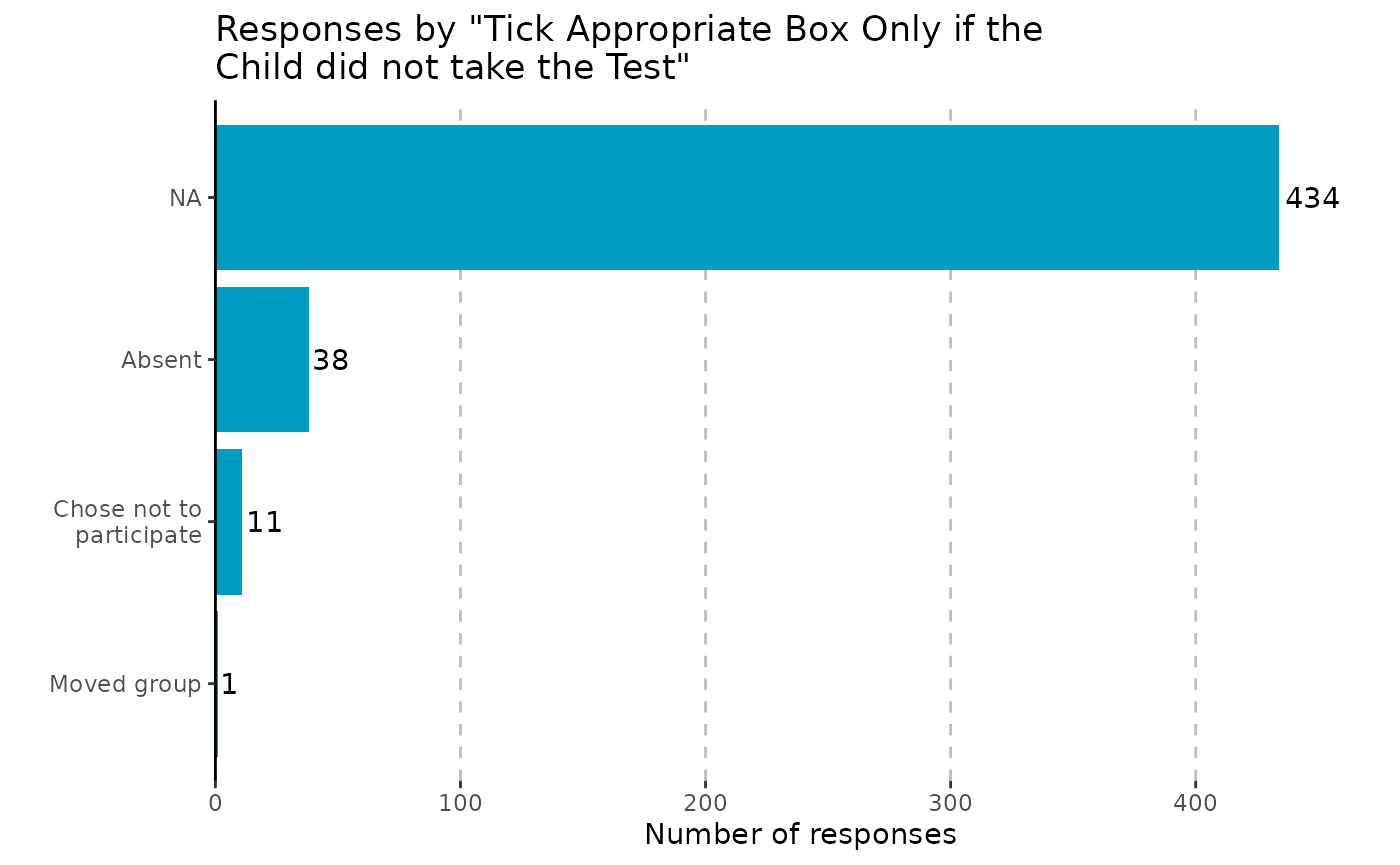
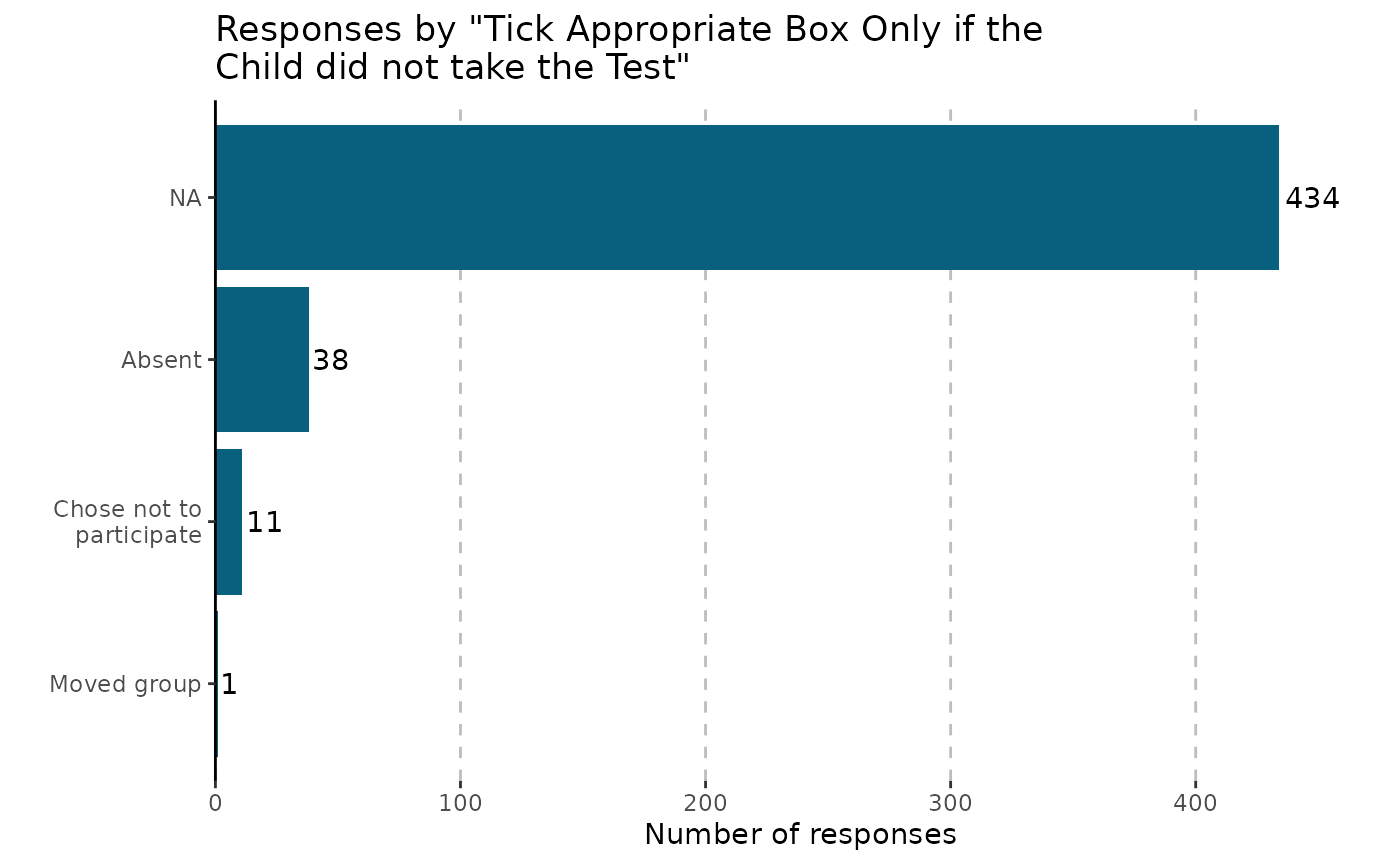
Deploying to gh-pages from @ Jake-Powell/OMESurvey@9e0850939877419bcef23e19df1eaf56ab7e080b 🚀

Changed region(s): [[0.1536, 0.1249, 0.9214, 0.6867]]

diff --git a/articles/Create-survey-figures.html b/articles/Create-survey-figures.html
@@ -111,7 +111,7 @@ ggplot, a plotly figure or a formatted data frame.</p>
 <div class="sourceCode" id="cb4"><pre class="downlit sourceCode r">
 <code class="sourceCode R"><span><span class="fu">OMESurvey</span><span class="fu">::</span><span class="fu"><a href="../reference/plot_theme.html">plot_theme</a></span><span class="op">(</span><span class="va">data</span>, theme <span class="op">=</span> <span class="st">'Theme_1'</span>, kind <span class="op">=</span> <span class="st">'plotly'</span><span class="op">)</span></span></code></pre></div>
 <div class="plotly html-widget html-fill-item" id="htmlwidget-ac96cb3ee4656e2e9ec3" style="width:700px;height:432.632880098888px;"></div>
-<script type="application/json" data-for="htmlwidget-ac96cb3ee4656e2e9ec3">{"x":{"visdat":{"1e3f2b8c265e":["function () ","plotlyVisDat"]},"cur_data":"1e3f2b8c265e","attrs":{"1e3f2b8c265e":{"y":{},"x":{},"orientation":"h","hovertext":{},"hoverinfo":"text","color":{},"colors":["#009BC1","#08607E","#10263B","#732C53","#D7336C"],"alpha_stroke":1,"sizes":[10,100],"spans":[1,20],"type":"bar"}},"layout":{"margin":{"b":40,"l":60,"t":25,"r":10},"xaxis":{"domain":[0,1],"automargin":true,"title":"Number of responses"},"yaxis":{"domain":[0,1],"automargin":true,"title":"","type":"category","categoryorder":"array","categoryarray":["Question 1","Question 2","Question 3","Question 4","Question 5","Question 6"]},"barmode":"stack","hovermode":"closest","showlegend":true},"source":"A","config":{"modeBarButtonsToAdd":["hoverclosest","hovercompare"],"showSendToCloud":false},"data":[{"y":["Question 1","Question 2","Question 3","Question 4","Question 5","Question 6"],"x":[122,49,84,134,85,90],"orientation":"h","hovertext":["Agree a lot<br>122 Responses<br>34.9%","Agree a lot<br>49 Responses<br>14.4%","Agree a lot<br>84 Responses<br>23.9%","Agree a lot<br>134 Responses<br>38.1%","Agree a lot<br>85 Responses<br>23.5%","Agree a lot<br>90 Responses<br>25.9%"],"hoverinfo":["text","text","text","text","text","text"],"type":"bar","name":"Agree a lot","marker":{"color":"rgba(0,155,193,1)","line":{"color":"rgba(0,155,193,1)"}},"textfont":{"color":"rgba(0,155,193,1)"},"error_y":{"color":"rgba(0,155,193,1)"},"error_x":{"color":"rgba(0,155,193,1)"},"xaxis":"x","yaxis":"y","frame":null},{"y":["Question 1","Question 2","Question 3","Question 4","Question 5","Question 6"],"x":[139,175,135,103,58,104],"orientation":"h","hovertext":["Agree a little<br>139 Responses<br>39.7%","Agree a little<br>175 Responses<br>51.5%","Agree a little<br>135 Responses<br>38.4%","Agree a little<br>103 Responses<br>29.3%","Agree a little<br>58 Responses<br>16.1%","Agree a little<br>104 Responses<br>30%"],"hoverinfo":["text","text","text","text","text","text"],"type":"bar","name":"Agree a little","marker":{"color":"rgba(8,96,126,1)","line":{"color":"rgba(8,96,126,1)"}},"textfont":{"color":"rgba(8,96,126,1)"},"error_y":{"color":"rgba(8,96,126,1)"},"error_x":{"color":"rgba(8,96,126,1)"},"xaxis":"x","yaxis":"y","frame":null},{"y":["Question 1","Question 2","Question 3","Question 4","Question 5","Question 6"],"x":[45,54,65,52,70,76],"orientation":"h","hovertext":["Neither<br>45 Responses<br>12.9%","Neither<br>54 Responses<br>15.9%","Neither<br>65 Responses<br>18.5%","Neither<br>52 Responses<br>14.8%","Neither<br>70 Responses<br>19.4%","Neither<br>76 Responses<br>21.9%"],"hoverinfo":["text","text","text","text","text","text"],"type":"bar","name":"Neither","marker":{"color":"rgba(16,38,59,1)","line":{"color":"rgba(16,38,59,1)"}},"textfont":{"color":"rgba(16,38,59,1)"},"error_y":{"color":"rgba(16,38,59,1)"},"error_x":{"color":"rgba(16,38,59,1)"},"xaxis":"x","yaxis":"y","frame":null},{"y":["Question 1","Question 2","Question 3","Question 4","Question 5","Question 6"],"x":[28,44,47,33,61,32],"orientation":"h","hovertext":["Disagree a little<br>28 Responses<br>8%","Disagree a little<br>44 Responses<br>12.9%","Disagree a little<br>47 Responses<br>13.4%","Disagree a little<br>33 Responses<br>9.4%","Disagree a little<br>61 Responses<br>16.9%","Disagree a little<br>32 Responses<br>9.2%"],"hoverinfo":["text","text","text","text","text","text"],"type":"bar","name":"Disagree a little","marker":{"color":"rgba(115,44,83,1)","line":{"color":"rgba(115,44,83,1)"}},"textfont":{"color":"rgba(115,44,83,1)"},"error_y":{"color":"rgba(115,44,83,1)"},"error_x":{"color":"rgba(115,44,83,1)"},"xaxis":"x","yaxis":"y","frame":null},{"y":["Question 1","Question 2","Question 3","Question 4","Question 5","Question 6"],"x":[16,18,21,30,87,45],"orientation":"h","hovertext":["Disagree a lot<br>16 Responses<br>4.6%","Disagree a lot<br>18 Responses<br>5.3%","Disagree a lot<br>21 Responses<br>6%","Disagree a lot<br>30 Responses<br>8.5%","Disagree a lot<br>87 Responses<br>24.1%","Disagree a lot<br>45 Responses<br>13%"],"hoverinfo":["text","text","text","text","text","text"],"type":"bar","name":"Disagree a lot","marker":{"color":"rgba(215,51,108,1)","line":{"color":"rgba(215,51,108,1)"}},"textfont":{"color":"rgba(215,51,108,1)"},"error_y":{"color":"rgba(215,51,108,1)"},"error_x":{"color":"rgba(215,51,108,1)"},"xaxis":"x","yaxis":"y","frame":null}],"highlight":{"on":"plotly_click","persistent":false,"dynamic":false,"selectize":false,"opacityDim":0.20000000000000001,"selected":{"opacity":1},"debounce":0},"shinyEvents":["plotly_hover","plotly_click","plotly_selected","plotly_relayout","plotly_brushed","plotly_brushing","plotly_clickannotation","plotly_doubleclick","plotly_deselect","plotly_afterplot","plotly_sunburstclick"],"base_url":"https://plot.ly"},"evals":[],"jsHooks":[]}</script>
+<script type="application/json" data-for="htmlwidget-ac96cb3ee4656e2e9ec3">{"x":{"visdat":{"1d3f7cca3810":["function () ","plotlyVisDat"]},"cur_data":"1d3f7cca3810","attrs":{"1d3f7cca3810":{"y":{},"x":{},"orientation":"h","hovertext":{},"hoverinfo":"text","color":{},"colors":["#009BC1","#08607E","#10263B","#732C53","#D7336C"],"alpha_stroke":1,"sizes":[10,100],"spans":[1,20],"type":"bar"}},"layout":{"margin":{"b":40,"l":60,"t":25,"r":10},"xaxis":{"domain":[0,1],"automargin":true,"title":"Number of responses"},"yaxis":{"domain":[0,1],"automargin":true,"title":"","type":"category","categoryorder":"array","categoryarray":["Question 1","Question 2","Question 3","Question 4","Question 5","Question 6"]},"barmode":"stack","hovermode":"closest","showlegend":true},"source":"A","config":{"modeBarButtonsToAdd":["hoverclosest","hovercompare"],"showSendToCloud":false},"data":[{"y":["Question 1","Question 2","Question 3","Question 4","Question 5","Question 6"],"x":[122,49,84,134,85,90],"orientation":"h","hovertext":["Agree a lot<br>122 Responses<br>34.9%","Agree a lot<br>49 Responses<br>14.4%","Agree a lot<br>84 Responses<br>23.9%","Agree a lot<br>134 Responses<br>38.1%","Agree a lot<br>85 Responses<br>23.5%","Agree a lot<br>90 Responses<br>25.9%"],"hoverinfo":["text","text","text","text","text","text"],"type":"bar","name":"Agree a lot","marker":{"color":"rgba(0,155,193,1)","line":{"color":"rgba(0,155,193,1)"}},"textfont":{"color":"rgba(0,155,193,1)"},"error_y":{"color":"rgba(0,155,193,1)"},"error_x":{"color":"rgba(0,155,193,1)"},"xaxis":"x","yaxis":"y","frame":null},{"y":["Question 1","Question 2","Question 3","Question 4","Question 5","Question 6"],"x":[139,175,135,103,58,104],"orientation":"h","hovertext":["Agree a little<br>139 Responses<br>39.7%","Agree a little<br>175 Responses<br>51.5%","Agree a little<br>135 Responses<br>38.4%","Agree a little<br>103 Responses<br>29.3%","Agree a little<br>58 Responses<br>16.1%","Agree a little<br>104 Responses<br>30%"],"hoverinfo":["text","text","text","text","text","text"],"type":"bar","name":"Agree a little","marker":{"color":"rgba(8,96,126,1)","line":{"color":"rgba(8,96,126,1)"}},"textfont":{"color":"rgba(8,96,126,1)"},"error_y":{"color":"rgba(8,96,126,1)"},"error_x":{"color":"rgba(8,96,126,1)"},"xaxis":"x","yaxis":"y","frame":null},{"y":["Question 1","Question 2","Question 3","Question 4","Question 5","Question 6"],"x":[45,54,65,52,70,76],"orientation":"h","hovertext":["Neither<br>45 Responses<br>12.9%","Neither<br>54 Responses<br>15.9%","Neither<br>65 Responses<br>18.5%","Neither<br>52 Responses<br>14.8%","Neither<br>70 Responses<br>19.4%","Neither<br>76 Responses<br>21.9%"],"hoverinfo":["text","text","text","text","text","text"],"type":"bar","name":"Neither","marker":{"color":"rgba(16,38,59,1)","line":{"color":"rgba(16,38,59,1)"}},"textfont":{"color":"rgba(16,38,59,1)"},"error_y":{"color":"rgba(16,38,59,1)"},"error_x":{"color":"rgba(16,38,59,1)"},"xaxis":"x","yaxis":"y","frame":null},{"y":["Question 1","Question 2","Question 3","Question 4","Question 5","Question 6"],"x":[28,44,47,33,61,32],"orientation":"h","hovertext":["Disagree a little<br>28 Responses<br>8%","Disagree a little<br>44 Responses<br>12.9%","Disagree a little<br>47 Responses<br>13.4%","Disagree a little<br>33 Responses<br>9.4%","Disagree a little<br>61 Responses<br>16.9%","Disagree a little<br>32 Responses<br>9.2%"],"hoverinfo":["text","text","text","text","text","text"],"type":"bar","name":"Disagree a little","marker":{"color":"rgba(115,44,83,1)","line":{"color":"rgba(115,44,83,1)"}},"textfont":{"color":"rgba(115,44,83,1)"},"error_y":{"color":"rgba(115,44,83,1)"},"error_x":{"color":"rgba(115,44,83,1)"},"xaxis":"x","yaxis":"y","frame":null},{"y":["Question 1","Question 2","Question 3","Question 4","Question 5","Question 6"],"x":[16,18,21,30,87,45],"orientation":"h","hovertext":["Disagree a lot<br>16 Responses<br>4.6%","Disagree a lot<br>18 Responses<br>5.3%","Disagree a lot<br>21 Responses<br>6%","Disagree a lot<br>30 Responses<br>8.5%","Disagree a lot<br>87 Responses<br>24.1%","Disagree a lot<br>45 Responses<br>13%"],"hoverinfo":["text","text","text","text","text","text"],"type":"bar","name":"Disagree a lot","marker":{"color":"rgba(215,51,108,1)","line":{"color":"rgba(215,51,108,1)"}},"textfont":{"color":"rgba(215,51,108,1)"},"error_y":{"color":"rgba(215,51,108,1)"},"error_x":{"color":"rgba(215,51,108,1)"},"xaxis":"x","yaxis":"y","frame":null}],"highlight":{"on":"plotly_click","persistent":false,"dynamic":false,"selectize":false,"opacityDim":0.20000000000000001,"selected":{"opacity":1},"debounce":0},"shinyEvents":["plotly_hover","plotly_click","plotly_selected","plotly_relayout","plotly_brushed","plotly_brushing","plotly_clickannotation","plotly_doubleclick","plotly_deselect","plotly_afterplot","plotly_sunburstclick"],"base_url":"https://plot.ly"},"evals":[],"jsHooks":[]}</script>
 </div>
 <div class="tab-pane" id="data-frame" role="tabpanel" aria-labelledby="data-frame-tab">
 
@@ -203,7 +203,7 @@ code.</p>
 <div class="sourceCode" id="cb10"><pre class="downlit sourceCode r">
 <code class="sourceCode R"><span><span class="fu">OMESurvey</span><span class="fu">::</span><span class="fu"><a href="../reference/plot_theme_by_demographic.html">plot_theme_by_demographic</a></span><span class="op">(</span><span class="va">data</span>, theme <span class="op">=</span> <span class="st">'Theme_1'</span>, demographic_column <span class="op">=</span> <span class="va">school_column</span>,  kind <span class="op">=</span> <span class="st">'plotly'</span><span class="op">)</span></span></code></pre></div>
 <div class="plotly html-widget html-fill-item" id="htmlwidget-36aa3d2a04d42bbc2145" style="width:700px;height:432.632880098888px;"></div>
-<script type="application/json" data-for="htmlwidget-36aa3d2a04d42bbc2145">{"x":{"visdat":{"1e3f4f6bcccb":["function () ","plotlyVisDat"]},"cur_data":"1e3f4f6bcccb","attrs":{"1e3f4f6bcccb":{"y":{},"x":{},"orientation":"h","hovertext":{},"hoverinfo":"text","color":{},"colors":["#009BC1","#08607E","#10263B","#D7336C"],"alpha_stroke":1,"sizes":[10,100],"spans":[1,20],"type":"bar"}},"layout":{"margin":{"b":40,"l":60,"t":25,"r":10},"xaxis":{"domain":[0,1],"automargin":true,"title":"Agree or strongly agree (%)"},"yaxis":{"domain":[0,1],"automargin":true,"title":"","type":"category","categoryorder":"array","categoryarray":["Question 1","Question 2","Question 3","Question 4","Question 5","Question 6"]},"hovermode":"closest","showlegend":true},"source":"A","config":{"modeBarButtonsToAdd":["hoverclosest","hovercompare"],"showSendToCloud":false},"data":[{"y":["Question 1","Question 2","Question 3","Question 4","Question 5","Question 6"],"x":[49.101796407185603,47.904191616766497,46.706586826347298,48.502994011976,23.353293413173699,37.125748502994],"orientation":"h","hovertext":["Question 1<br>School: 007<br>49.1% of responses","Question 2<br>School: 007<br>47.9% of responses","Question 3<br>School: 007<br>46.7% of responses","Question 4<br>School: 007<br>48.5% of responses","Question 5<br>School: 007<br>23.4% of responses","Question 6<br>School: 007<br>37.1% of responses"],"hoverinfo":["text","text","text","text","text","text"],"type":"bar","name":"007","marker":{"color":"rgba(0,155,193,1)","line":{"color":"rgba(0,155,193,1)"}},"textfont":{"color":"rgba(0,155,193,1)"},"error_y":{"color":"rgba(0,155,193,1)"},"error_x":{"color":"rgba(0,155,193,1)"},"xaxis":"x","yaxis":"y","frame":null},{"y":["Question 1","Question 2","Question 3","Question 4","Question 5","Question 6"],"x":[56.818181818181799,44.090909090909101,45.909090909090899,48.181818181818201,32.272727272727302,43.636363636363598],"orientation":"h","hovertext":["Question 1<br>School: 008<br>56.8% of responses","Question 2<br>School: 008<br>44.1% of responses","Question 3<br>School: 008<br>45.9% of responses","Question 4<br>School: 008<br>48.2% of responses","Question 5<br>School: 008<br>32.3% of responses","Question 6<br>School: 008<br>43.6% of responses"],"hoverinfo":["text","text","text","text","text","text"],"type":"bar","name":"008","marker":{"color":"rgba(8,96,126,1)","line":{"color":"rgba(8,96,126,1)"}},"textfont":{"color":"rgba(8,96,126,1)"},"error_y":{"color":"rgba(8,96,126,1)"},"error_x":{"color":"rgba(8,96,126,1)"},"xaxis":"x","yaxis":"y","frame":null},{"y":["Question 1","Question 2","Question 3","Question 4","Question 5","Question 6"],"x":[70.588235294117695,55.882352941176499,35.294117647058798,55.882352941176499,35.294117647058798,38.235294117647101],"orientation":"h","hovertext":["Question 1<br>School: 009<br>70.6% of responses","Question 2<br>School: 009<br>55.9% of responses","Question 3<br>School: 009<br>35.3% of responses","Question 4<br>School: 009<br>55.9% of responses","Question 5<br>School: 009<br>35.3% of responses","Question 6<br>School: 009<br>38.2% of responses"],"hoverinfo":["text","text","text","text","text","text"],"type":"bar","name":"009","marker":{"color":"rgba(16,38,59,1)","line":{"color":"rgba(16,38,59,1)"}},"textfont":{"color":"rgba(16,38,59,1)"},"error_y":{"color":"rgba(16,38,59,1)"},"error_x":{"color":"rgba(16,38,59,1)"},"xaxis":"x","yaxis":"y","frame":null},{"y":["Question 1","Question 2","Question 3","Question 4","Question 5","Question 6"],"x":[47.619047619047599,44.4444444444444,44.4444444444444,49.206349206349202,33.3333333333333,36.507936507936499],"orientation":"h","hovertext":["Question 1<br>School: 010<br>47.6% of responses","Question 2<br>School: 010<br>44.4% of responses","Question 3<br>School: 010<br>44.4% of responses","Question 4<br>School: 010<br>49.2% of responses","Question 5<br>School: 010<br>33.3% of responses","Question 6<br>School: 010<br>36.5% of responses"],"hoverinfo":["text","text","text","text","text","text"],"type":"bar","name":"010","marker":{"color":"rgba(215,51,108,1)","line":{"color":"rgba(215,51,108,1)"}},"textfont":{"color":"rgba(215,51,108,1)"},"error_y":{"color":"rgba(215,51,108,1)"},"error_x":{"color":"rgba(215,51,108,1)"},"xaxis":"x","yaxis":"y","frame":null}],"highlight":{"on":"plotly_click","persistent":false,"dynamic":false,"selectize":false,"opacityDim":0.20000000000000001,"selected":{"opacity":1},"debounce":0},"shinyEvents":["plotly_hover","plotly_click","plotly_selected","plotly_relayout","plotly_brushed","plotly_brushing","plotly_clickannotation","plotly_doubleclick","plotly_deselect","plotly_afterplot","plotly_sunburstclick"],"base_url":"https://plot.ly"},"evals":[],"jsHooks":[]}</script>
+<script type="application/json" data-for="htmlwidget-36aa3d2a04d42bbc2145">{"x":{"visdat":{"1d3f477cb7fd":["function () ","plotlyVisDat"]},"cur_data":"1d3f477cb7fd","attrs":{"1d3f477cb7fd":{"y":{},"x":{},"orientation":"h","hovertext":{},"hoverinfo":"text","color":{},"colors":["#047D9F","#0C435C","#412947","#A52F5F"],"alpha_stroke":1,"sizes":[10,100],"spans":[1,20],"type":"bar"}},"layout":{"margin":{"b":40,"l":60,"t":25,"r":10},"xaxis":{"domain":[0,1],"automargin":true,"title":"Agree or strongly agree (%)"},"yaxis":{"domain":[0,1],"automargin":true,"title":"","type":"category","categoryorder":"array","categoryarray":["Question 1","Question 2","Question 3","Question 4","Question 5","Question 6"]},"hovermode":"closest","showlegend":true},"source":"A","config":{"modeBarButtonsToAdd":["hoverclosest","hovercompare"],"showSendToCloud":false},"data":[{"y":["Question 1","Question 2","Question 3","Question 4","Question 5","Question 6"],"x":[49.101796407185603,47.904191616766497,46.706586826347298,48.502994011976,23.353293413173699,37.125748502994],"orientation":"h","hovertext":["Question 1<br>School: 007<br>49.1% of responses","Question 2<br>School: 007<br>47.9% of responses","Question 3<br>School: 007<br>46.7% of responses","Question 4<br>School: 007<br>48.5% of responses","Question 5<br>School: 007<br>23.4% of responses","Question 6<br>School: 007<br>37.1% of responses"],"hoverinfo":["text","text","text","text","text","text"],"type":"bar","name":"007","marker":{"color":"rgba(4,125,159,1)","line":{"color":"rgba(4,125,159,1)"}},"textfont":{"color":"rgba(4,125,159,1)"},"error_y":{"color":"rgba(4,125,159,1)"},"error_x":{"color":"rgba(4,125,159,1)"},"xaxis":"x","yaxis":"y","frame":null},{"y":["Question 1","Question 2","Question 3","Question 4","Question 5","Question 6"],"x":[56.818181818181799,44.090909090909101,45.909090909090899,48.181818181818201,32.272727272727302,43.636363636363598],"orientation":"h","hovertext":["Question 1<br>School: 008<br>56.8% of responses","Question 2<br>School: 008<br>44.1% of responses","Question 3<br>School: 008<br>45.9% of responses","Question 4<br>School: 008<br>48.2% of responses","Question 5<br>School: 008<br>32.3% of responses","Question 6<br>School: 008<br>43.6% of responses"],"hoverinfo":["text","text","text","text","text","text"],"type":"bar","name":"008","marker":{"color":"rgba(12,67,92,1)","line":{"color":"rgba(12,67,92,1)"}},"textfont":{"color":"rgba(12,67,92,1)"},"error_y":{"color":"rgba(12,67,92,1)"},"error_x":{"color":"rgba(12,67,92,1)"},"xaxis":"x","yaxis":"y","frame":null},{"y":["Question 1","Question 2","Question 3","Question 4","Question 5","Question 6"],"x":[70.588235294117695,55.882352941176499,35.294117647058798,55.882352941176499,35.294117647058798,38.235294117647101],"orientation":"h","hovertext":["Question 1<br>School: 009<br>70.6% of responses","Question 2<br>School: 009<br>55.9% of responses","Question 3<br>School: 009<br>35.3% of responses","Question 4<br>School: 009<br>55.9% of responses","Question 5<br>School: 009<br>35.3% of responses","Question 6<br>School: 009<br>38.2% of responses"],"hoverinfo":["text","text","text","text","text","text"],"type":"bar","name":"009","marker":{"color":"rgba(65,41,71,1)","line":{"color":"rgba(65,41,71,1)"}},"textfont":{"color":"rgba(65,41,71,1)"},"error_y":{"color":"rgba(65,41,71,1)"},"error_x":{"color":"rgba(65,41,71,1)"},"xaxis":"x","yaxis":"y","frame":null},{"y":["Question 1","Question 2","Question 3","Question 4","Question 5","Question 6"],"x":[47.619047619047599,44.4444444444444,44.4444444444444,49.206349206349202,33.3333333333333,36.507936507936499],"orientation":"h","hovertext":["Question 1<br>School: 010<br>47.6% of responses","Question 2<br>School: 010<br>44.4% of responses","Question 3<br>School: 010<br>44.4% of responses","Question 4<br>School: 010<br>49.2% of responses","Question 5<br>School: 010<br>33.3% of responses","Question 6<br>School: 010<br>36.5% of responses"],"hoverinfo":["text","text","text","text","text","text"],"type":"bar","name":"010","marker":{"color":"rgba(165,47,95,1)","line":{"color":"rgba(165,47,95,1)"}},"textfont":{"color":"rgba(165,47,95,1)"},"error_y":{"color":"rgba(165,47,95,1)"},"error_x":{"color":"rgba(165,47,95,1)"},"xaxis":"x","yaxis":"y","frame":null}],"highlight":{"on":"plotly_click","persistent":false,"dynamic":false,"selectize":false,"opacityDim":0.20000000000000001,"selected":{"opacity":1},"debounce":0},"shinyEvents":["plotly_hover","plotly_click","plotly_selected","plotly_relayout","plotly_brushed","plotly_brushing","plotly_clickannotation","plotly_doubleclick","plotly_deselect","plotly_afterplot","plotly_sunburstclick"],"base_url":"https://plot.ly"},"evals":[],"jsHooks":[]}</script>
 </div>
 <div class="tab-pane" id="data-frame-1" role="tabpanel" aria-labelledby="data-frame-1-tab">
 
@@ -278,7 +278,7 @@ column within survey data.</p>
 <div class="sourceCode" id="cb16"><pre class="downlit sourceCode r">
 <code class="sourceCode R"><span><span class="fu">OMESurvey</span><span class="fu">::</span><span class="fu"><a href="../reference/plot_bar.html">plot_bar</a></span><span class="op">(</span><span class="va">data</span>, column <span class="op">=</span> <span class="fl">5</span>, kind <span class="op">=</span> <span class="st">'plotly'</span><span class="op">)</span></span></code></pre></div>
 <div class="plotly html-widget html-fill-item" id="htmlwidget-1fb4450895fe099f74a1" style="width:700px;height:432.632880098888px;"></div>
-<script type="application/json" data-for="htmlwidget-1fb4450895fe099f74a1">{"x":{"visdat":{"1e3f36d2d3a3":["function () ","plotlyVisDat"]},"cur_data":"1e3f36d2d3a3","attrs":{"1e3f36d2d3a3":{"y":{},"x":{},"orientation":"h","hovertext":{},"hoverinfo":"text","color":"#009BC1","colors":"#009BC1","alpha_stroke":1,"sizes":[10,100],"spans":[1,20],"type":"bar"}},"layout":{"margin":{"b":40,"l":60,"t":25,"r":10},"xaxis":{"domain":[0,1],"automargin":true,"title":"Number of responses"},"yaxis":{"domain":[0,1],"automargin":true,"title":"","type":"category","categoryorder":"array","categoryarray":["Moved group","Chose not to<br>participate","Absent"]},"hovermode":"closest","showlegend":false},"source":"A","config":{"modeBarButtonsToAdd":["hoverclosest","hovercompare"],"showSendToCloud":false},"data":[{"y":["Moved group","Chose not to<br>participate","Absent"],"x":[1,11,38],"orientation":"h","hovertext":["Moved group: 1<br>2% of responses","Chose not to participate: 11<br>22% of responses","Absent: 38<br>76% of responses"],"hoverinfo":["text","text","text"],"type":"bar","name":"#009BC1","marker":{"color":"rgba(0,155,193,1)","line":{"color":"rgba(0,155,193,1)"}},"textfont":{"color":"rgba(0,155,193,1)"},"error_y":{"color":"rgba(0,155,193,1)"},"error_x":{"color":"rgba(0,155,193,1)"},"xaxis":"x","yaxis":"y","frame":null}],"highlight":{"on":"plotly_click","persistent":false,"dynamic":false,"selectize":false,"opacityDim":0.20000000000000001,"selected":{"opacity":1},"debounce":0},"shinyEvents":["plotly_hover","plotly_click","plotly_selected","plotly_relayout","plotly_brushed","plotly_brushing","plotly_clickannotation","plotly_doubleclick","plotly_deselect","plotly_afterplot","plotly_sunburstclick"],"base_url":"https://plot.ly"},"evals":[],"jsHooks":[]}</script>
+<script type="application/json" data-for="htmlwidget-1fb4450895fe099f74a1">{"x":{"visdat":{"1d3f3468c6af":["function () ","plotlyVisDat"]},"cur_data":"1d3f3468c6af","attrs":{"1d3f3468c6af":{"y":{},"x":{},"orientation":"h","hovertext":{},"hoverinfo":"text","color":"#08607E","colors":"#08607E","alpha_stroke":1,"sizes":[10,100],"spans":[1,20],"type":"bar"}},"layout":{"margin":{"b":40,"l":60,"t":25,"r":10},"xaxis":{"domain":[0,1],"automargin":true,"title":"Number of responses"},"yaxis":{"domain":[0,1],"automargin":true,"title":"","type":"category","categoryorder":"array","categoryarray":["Moved group","Chose not to<br>participate","Absent"]},"hovermode":"closest","showlegend":false},"source":"A","config":{"modeBarButtonsToAdd":["hoverclosest","hovercompare"],"showSendToCloud":false},"data":[{"y":["Moved group","Chose not to<br>participate","Absent"],"x":[1,11,38],"orientation":"h","hovertext":["Moved group: 1<br>2% of responses","Chose not to participate: 11<br>22% of responses","Absent: 38<br>76% of responses"],"hoverinfo":["text","text","text"],"type":"bar","name":"#08607E","marker":{"color":"rgba(8,96,126,1)","line":{"color":"rgba(8,96,126,1)"}},"textfont":{"color":"rgba(8,96,126,1)"},"error_y":{"color":"rgba(8,96,126,1)"},"error_x":{"color":"rgba(8,96,126,1)"},"xaxis":"x","yaxis":"y","frame":null}],"highlight":{"on":"plotly_click","persistent":false,"dynamic":false,"selectize":false,"opacityDim":0.20000000000000001,"selected":{"opacity":1},"debounce":0},"shinyEvents":["plotly_hover","plotly_click","plotly_selected","plotly_relayout","plotly_brushed","plotly_brushing","plotly_clickannotation","plotly_doubleclick","plotly_deselect","plotly_afterplot","plotly_sunburstclick"],"base_url":"https://plot.ly"},"evals":[],"jsHooks":[]}</script>
 </div>
 <div class="tab-pane" id="data-frame-2" role="tabpanel" aria-labelledby="data-frame-2-tab">
 

diff --git a/reference/get_OME_colours.html b/reference/get_OME_colours.html
@@ -55,28 +55,27 @@
 
 
 <dt id="arg-type">type<a class="anchor" aria-label="anchor" href="#arg-type"></a></dt>
-<dd><p>either "complementary",  "contrast" or "distinct" or "distinct".</p></dd>
+<dd><p>either "contrast", "complementary" or "distinct".</p></dd>
 
 </dl></div>
     <div class="section level2">
     <h2 id="value">Value<a class="anchor" aria-label="anchor" href="#value"></a></h2>
-    <p>a vector of colours.</p>
+    <p>a vector of "n" colours.</p>
     </div>
     <div class="section level2">
     <h2 id="details">Details<a class="anchor" aria-label="anchor" href="#details"></a></h2>
-    <p>Base colours for palettes:</p><ul><li><p>OME complementary colours = c("#10263A","#009BC2", "#37B4B0").</p></li>
-<li><p>OME contrast colours = c("#009BC2", "#10263A", '#d7386b').</p></li>
-<li><p>OME distinct colours = c("#009BC1",'#DEB406', '#D7336C', '#10263B')</p></li>
+    <p>Base colours for palettes:</p><ul><li><p>OME complementary colours = "#10263B" (Dark Navy/Nottingham Blue), "#009BC1" (Blue/Malaysia Sky Blue) and "#37B4B0"(Turquoise/Trent Turquoise).</p></li>
+<li><p>OME contrast colours = "#009BC1" (Blue/Malaysia Sky Blue), "#10263B" (Dark Navy/Nottingham Blue) and '#D7336C' (Pink/Pioneering Pink).</p></li>
+<li><p>OME distinct colours = "#009BC1"(Blue/Malaysia Sky Blue),'#DEB406' (Gold/Rebel's Gold), '#D7336C' (Pink/Pioneering Pink) and '#10263B' (Dark Navy/Nottingham Blue).</p></li>
 </ul><p>If more than the designated colours are specified we interpolate the colours using <code><a href="https://rdrr.io/r/grDevices/colorRamp.html" class="external-link">grDevices::colorRampPalette()</a></code>.</p>
-<p>For "distinct2", when 4&lt; n &lt;=10 we force the distinct colours to appear in the provided colours. This is done by going to a palette with those colours (n=7 or 10) and working back by removing interpolated colours.</p>
     </div>
 
     <div class="section level2">
     <h2 id="ref-examples">Examples<a class="anchor" aria-label="anchor" href="#ref-examples"></a></h2>
     <div class="sourceCode"><pre class="sourceCode r"><code><span class="r-in"><span><span class="kw">if</span> <span class="op">(</span><span class="cn">FALSE</span><span class="op">)</span> <span class="op">{</span></span></span>
 <span class="r-in"><span><span class="fu">get_OME_colours</span><span class="op">(</span><span class="fl">3</span><span class="op">)</span> <span class="op">|&gt;</span> <span class="fu">scales</span><span class="fu">::</span><span class="fu"><a href="https://scales.r-lib.org/reference/show_col.html" class="external-link">show_col</a></span><span class="op">(</span><span class="op">)</span></span></span>
-<span class="r-in"><span><span class="fu">get_OME_colours</span><span class="op">(</span><span class="fl">3</span>, type <span class="op">=</span> <span class="st">'contrast'</span><span class="op">)</span> <span class="op">|&gt;</span> <span class="fu">scales</span><span class="fu">::</span><span class="fu"><a href="https://scales.r-lib.org/reference/show_col.html" class="external-link">show_col</a></span><span class="op">(</span><span class="op">)</span></span></span>
-<span class="r-in"><span><span class="fu">get_OME_colours</span><span class="op">(</span><span class="fl">10</span>, type <span class="op">=</span> <span class="st">'contrast'</span><span class="op">)</span> <span class="op">|&gt;</span> <span class="fu">scales</span><span class="fu">::</span><span class="fu"><a href="https://scales.r-lib.org/reference/show_col.html" class="external-link">show_col</a></span><span class="op">(</span><span class="op">)</span></span></span>
+<span class="r-in"><span><span class="fu">get_OME_colours</span><span class="op">(</span><span class="fl">3</span>, type <span class="op">=</span> <span class="st">'complementary'</span><span class="op">)</span> <span class="op">|&gt;</span> <span class="fu">scales</span><span class="fu">::</span><span class="fu"><a href="https://scales.r-lib.org/reference/show_col.html" class="external-link">show_col</a></span><span class="op">(</span><span class="op">)</span></span></span>
+<span class="r-in"><span><span class="fu">get_OME_colours</span><span class="op">(</span><span class="fl">9</span>, type <span class="op">=</span> <span class="st">'distinct'</span><span class="op">)</span> <span class="op">|&gt;</span> <span class="fu">scales</span><span class="fu">::</span><span class="fu"><a href="https://scales.r-lib.org/reference/show_col.html" class="external-link">show_col</a></span><span class="op">(</span><span class="op">)</span></span></span>
 <span class="r-in"><span><span class="op">}</span></span></span>
 </code></pre></div>
     </div>
